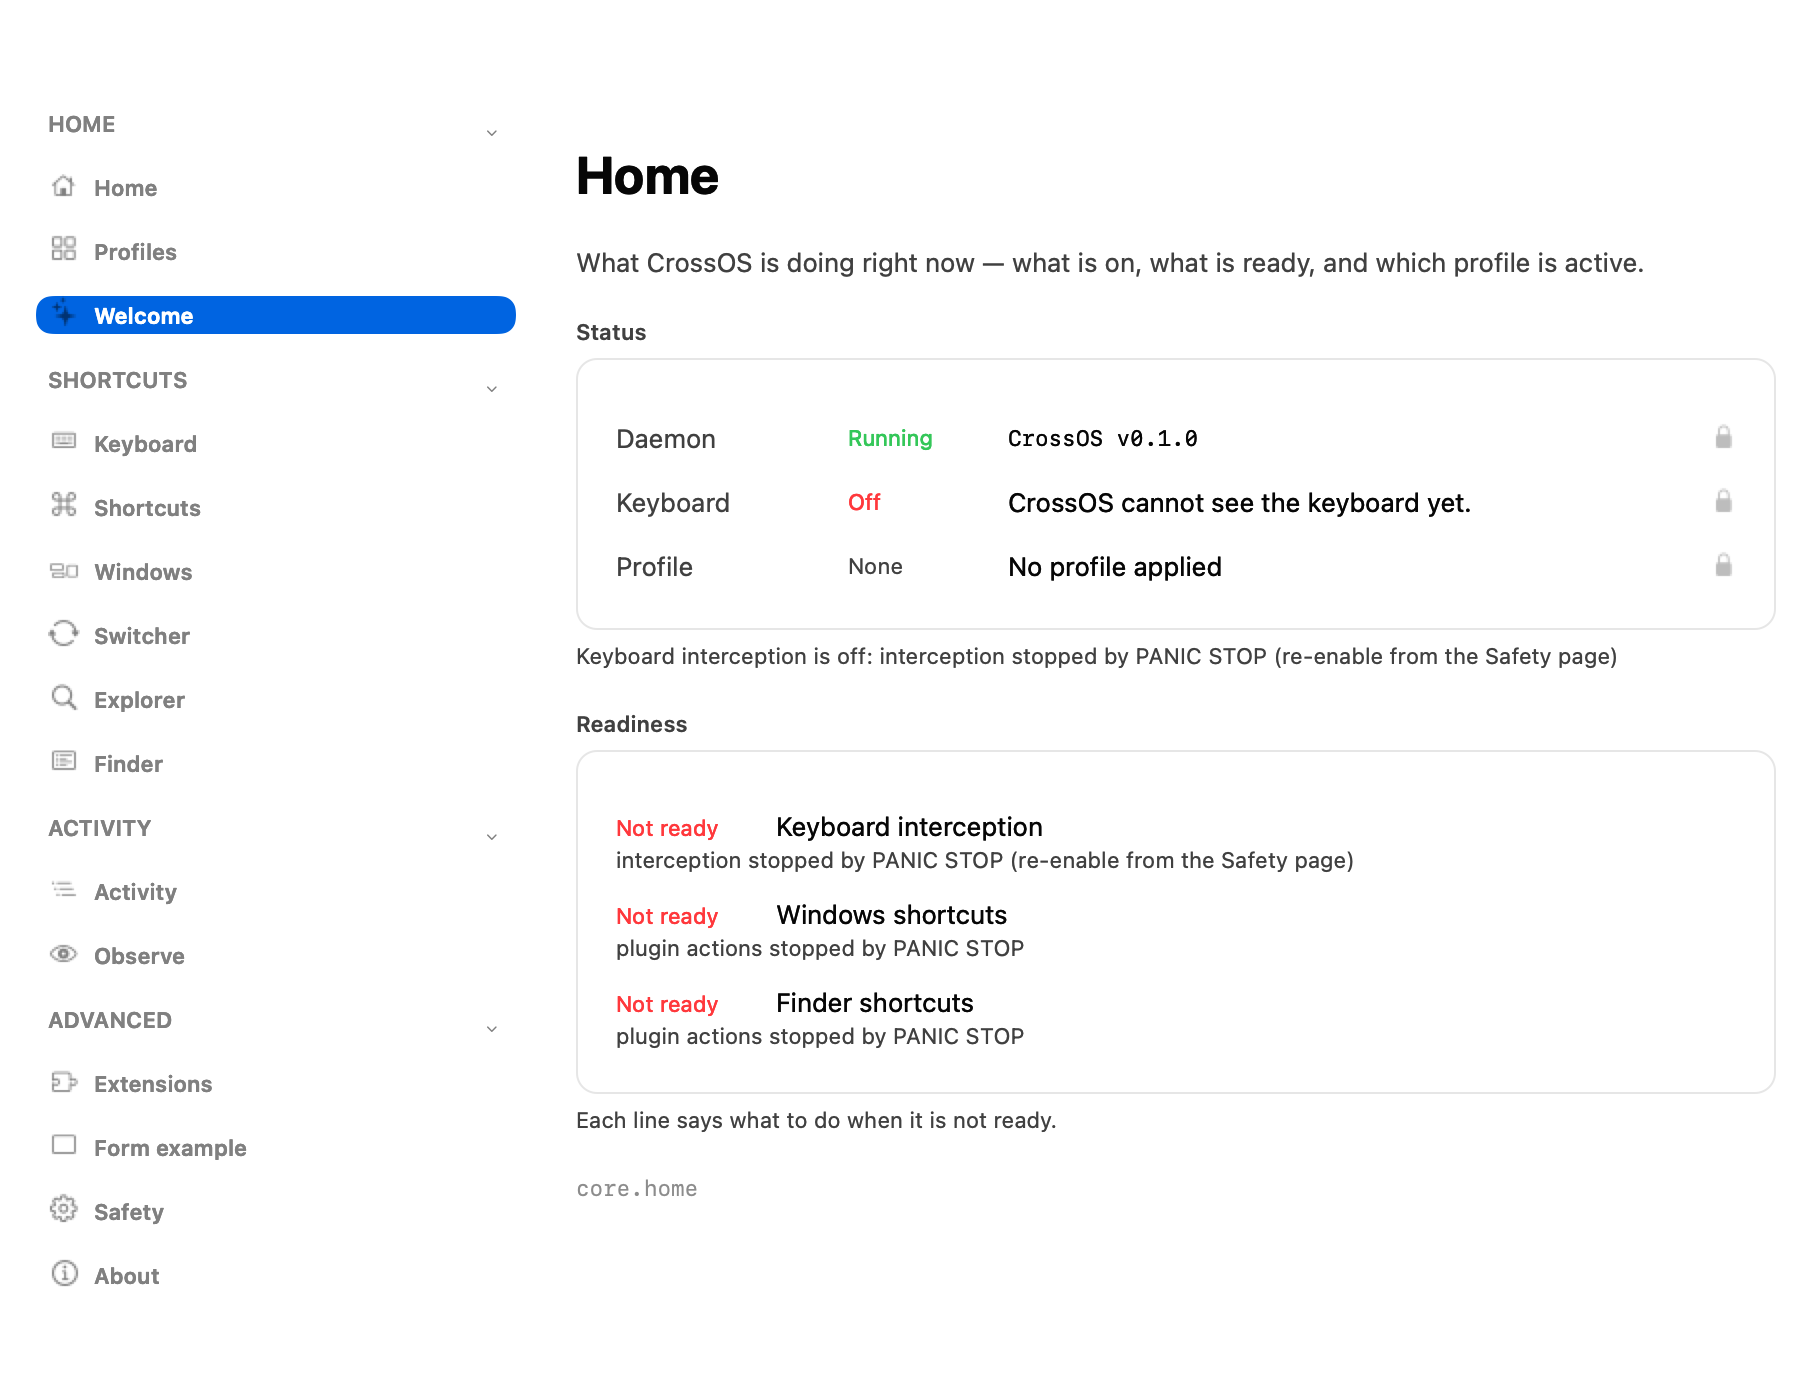
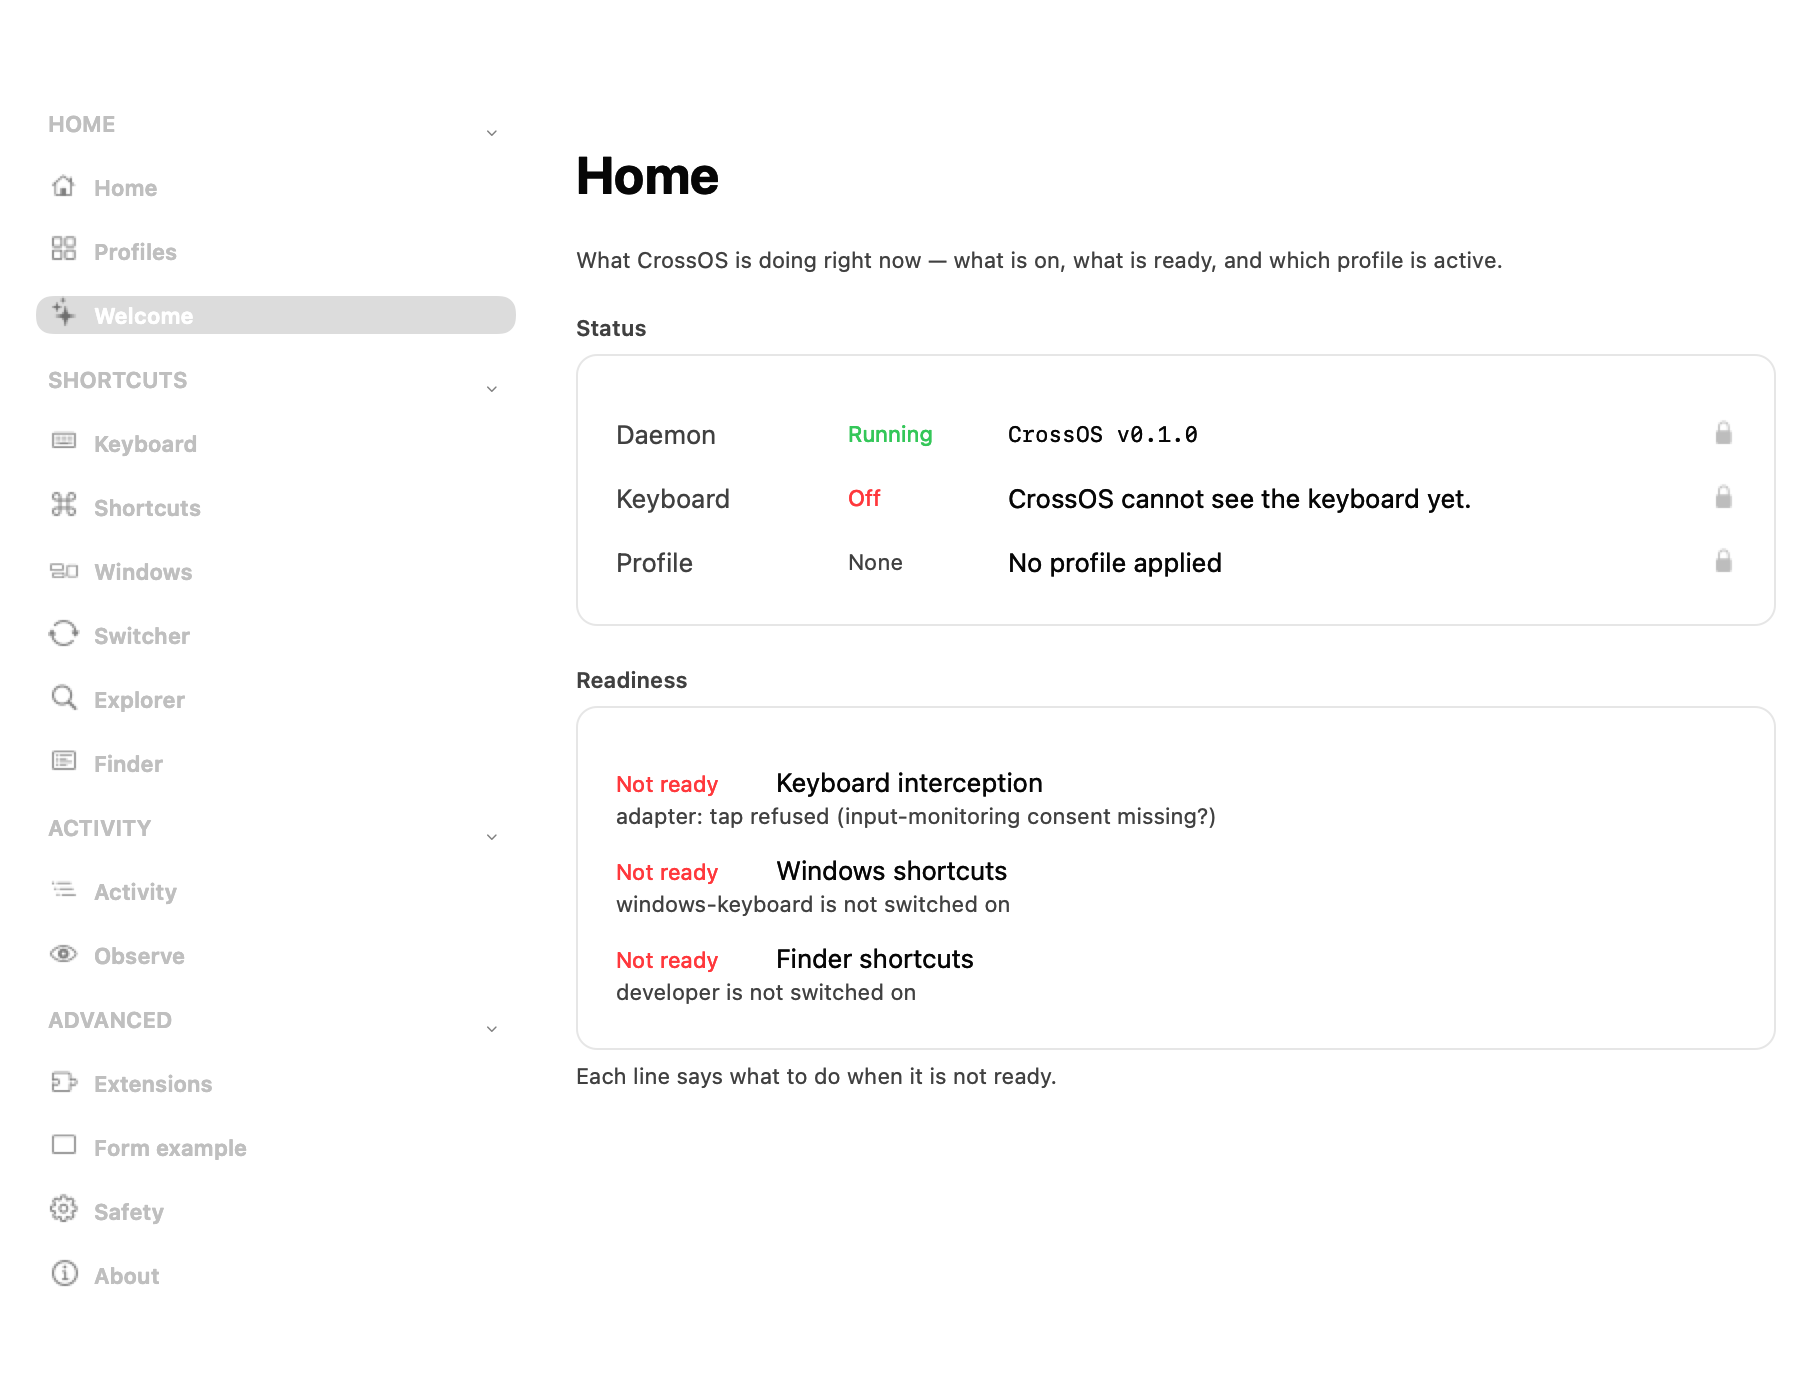
feat: take the developer chrome off every page
Three things a user sees on every screen and nobody asked for.

**The page id.** `core.home` in monospace at the foot of all fifteen
pages. The reason for it existing still holds — somebody reporting a
problem says "the About page is wrong" and the id makes it reproducible —
but it is a developer string on every screen, and it is the single thing
that made the app read as a diagnostic tool rather than as a Mac app. It
is behind `--show-ids` now, so reporting a bug still works.

**The description at body size.** On `core.commands` a sentence ABOUT
the Finder menu was set larger than the Finder menu. It is a subtitle,
not content, so it is caption size in the secondary ink — and it wraps,
because `labelWithString:` sets `usesSingleLineMode` and a label with it
set ignores `byWordWrapping` and truncates instead.

**The same sentence twice on one screen.** Measured on `core.home`:
"interception stopped by PANIC STOP (re-enable from the Safety page)"
appeared as the footnote under Status AND as the detail line under
"Keyboard interception" in the Readiness group. Two copies of one
sentence reads as two problems and is one. The Readiness rows own the
sentences they are about; the footnote is now only for a tap error no
readiness row carries.

And the shared plugin reason, which is the same mistake: all three
builtin plugins report the same "no manifest is loaded", rendered per row
as three identical orange lines on `core.extensions`. Stated once under
[…]

diff --git a/macos/Sources/CrossOSApp/ListViews2.swift b/macos/Sources/CrossOSApp/ListViews2.swift
@@ -378,6 +378,14 @@ private final class TraceTable: NSStackView, TableContent {
 /// What CrossOS can do, and what you have switched on.
 @MainActor
 final class PluginListView: CardControl {
+    /// The one reason every plugin reports, when they all report the same one.
+    ///
+    /// `core.pluginMeta` gives all three builtin plugins the same
+    /// `reason` and `loaded: false` — they are compiled from the rule table
+    /// and have no manifest. The row knows this is SHARED because it can
+    /// compare against this, and stays quiet; the list states it once.
+    static var sharedLoadReason: String = ""
+
     override init(control: Control, context: ControlContext) {
         super.init(control: control, context: context)
         Task { await load(context: context) }
@@ -401,7 +409,31 @@ final class PluginListView: CardControl {
         let stack = NSStackView()
         stack.orientation = .vertical
         stack.alignment = .leading
+        stack.distribution = .fill
         stack.spacing = Gap.row
+
+        // A reason SHARED by every plugin is one sentence for the group, not
+        // one per row. Three identical orange lines read as three problems;
+        // measured on `core.extensions`, that is what it rendered.
+        let reasons = metaRows.compactMap { row -> String? in
+            guard !row.loaded, let reason = row.reason, !reason.isEmpty else { return nil }
+            return reason
+        }
+        let shared = (reasons.count == metaRows.count && !reasons.isEmpty)
+            ? (reasons.first ?? "") : ""
+        PluginListView.sharedLoadReason = shared
+
+        if !shared.isEmpty {
+            let field = NSTextField(labelWithString: shared)
+            field.font = Typeface.caption
+            field.textColor = Palette.tertiaryInk
+            field.lineBreakMode = .byWordWrapping
+            field.usesSingleLineMode = false
+            field.maximumNumberOfLines = 0
+            stack.addArrangedSubview(field)
+            stack.setCustomSpacing(Gap.row, after: field)
+        }
+
         for meta in metaRows {
             stack.addArrangedSubview(PluginRow(
                 meta: meta,
@@ -459,14 +491,27 @@ private final class PluginRow: NSStackView {
         column.alignment = .leading
         column.spacing = Gap.tight
 
-        // A plugin that did not load says WHY, in words, in the row. A plugin
-        // listed with a switch and no reason is a control that does nothing and
-        // a person cannot tell whether it is broken or switched off.
-        if !meta.loaded, let reason = meta.reason, !reason.isEmpty {
+        // A plugin that did not load says WHY — but only when the reason is its
+        // OWN.
+        //
+        // All three builtin plugins report the same one: "no manifest is
+        // loaded — the builtin plugins are compiled from the rule table".
+        // Rendered per row, that is the same orange sentence three times on the
+        // page, which reads as three problems and is one. The shared case is
+        // stated once under the group by `PluginListView`, and the row says
+        // nothing about it.
+        //
+        // The reason stays in the row when it is specific to that plugin —
+        // one plugin failing to load for its own reason is that plugin's news.
+        let shared = PluginListView.sharedLoadReason
+        let reasonIsShared = !meta.loaded && meta.reason == shared && !shared.isEmpty
+
+        if !meta.loaded, let reason = meta.reason, !reason.isEmpty, !reasonIsShared {
             let field = NSTextField(labelWithString: reason)
             field.font = Typeface.caption
             field.textColor = Palette.warn
             field.lineBreakMode = .byWordWrapping
+            field.usesSingleLineMode = false
             field.maximumNumberOfLines = 0
             column.addArrangedSubview(field)
         } else if let permissions = meta.permissions, !permissions.isEmpty {

diff --git a/macos/Sources/CrossOSApp/PageViewController.swift b/macos/Sources/CrossOSApp/PageViewController.swift
@@ -41,16 +41,35 @@ public final class PageViewController: NSViewController {
         titleField.font = Typeface.pageTitle
         titleField.textColor = Palette.primaryInk
 
-        descriptionField.font = Typeface.body
+        // Caption size, and it wraps.
+        //
+        // The description was body size — the same size as the text inside
+        // every group on the page — so on `core.commands` a sentence about the
+        // Finder menu was set larger than the Finder menu. It is a subtitle,
+        // not content, and it should read as one.
+        descriptionField.font = Typeface.caption
         descriptionField.textColor = Palette.secondaryInk
-        descriptionField.maximumNumberOfLines = 2
+        descriptionField.alignment = .left
+        descriptionField.lineBreakMode = .byWordWrapping
+        // `labelWithString:` sets `usesSingleLineMode`, and with it set a label
+        // ignores `byWordWrapping` and truncates instead.
+        descriptionField.usesSingleLineMode = false
+        descriptionField.maximumNumberOfLines = 0
 
-        // The page's own id, small and quiet at the foot. It is there because
-        // a person reporting a problem says "the About page is wrong" and the
-        // id is what makes that reproducible — and because a plugin page whose
-        // id is visible is a page whose provenance is not a mystery.
+        // The page's own id, at the foot, and **only when it is asked for.**
+        //
+        // The reasoning for it existing at all still holds: a person reporting
+        // a problem says "the About page is wrong" and the id is what makes
+        // that reproducible. But `core.home` at the bottom of every page in
+        // monospace is a developer string on every screen a user ever sees,
+        // and it is the single thing that makes the app read as a diagnostic
+        // tool rather than as a Mac app.
+        //
+        // `--show-ids` is how someone reports a bug without it costing every
+        // other person the noise.
         pageId.font = Typeface.mono
         pageId.textColor = Palette.tertiaryInk
+        pageId.isHidden = !CommandLine.arguments.contains("--show-ids")
 
         stack.orientation = .vertical
         // `.width`, not `.leading`. A `.leading` stack gives each row its

diff --git a/macos/Sources/CrossOSApp/ShotRenderer.swift b/macos/Sources/CrossOSApp/ShotRenderer.swift
@@ -341,6 +341,23 @@ enum ShotRenderer {
         guard let pageView = shell.pageController?.view else {
             throw ShotError.noContentView
         }
+        // The content view, which is everything BELOW the title bar.
+        //
+        // **The toolbar and the title are not in any of these pictures**, and
+        // three attempts to put them there failed:
+        //
+        //   - capturing `contentView.superview` (the theme frame): it renders
+        //     the same picture, so the frame is not taller than the content
+        //   - pulling `contentView` out of its window into a synthetic holder:
+        //     `Trace/BPT trap` — a window tears down its own content view when
+        //     it is removed, so this is the crash, not a layout failure
+        //   - `screencapture`: "could not create image from display", which is
+        //     Screen Recording permission, and is a person to grant
+        //
+        // So the toolbar — the search field included — has NEVER been
+        // verified by a render in this repo, and every "looks right" said about
+        // it was said about a picture it was not in. That is a real gap and it
+        // is recorded here rather than papered over.
         let target: NSView = wholeWindow
             ? (shell.window?.contentView ?? pageView)
             : pageView
@@ -436,3 +453,5 @@ extension NSView {
         for sub in subviews { sub.setLayersOff() }
     }
 }
+
+

diff --git a/macos/Sources/CrossOSApp/Views.swift b/macos/Sources/CrossOSApp/Views.swift
@@ -163,7 +163,19 @@ final class HomeSummaryView: NSStackView {
         // And it is shown ONLY when there is something to say: a green
         // "All checks are ready" under a group of three green facts is noise,
         // on the most-read page in the app.
-        if let error = statusValue?.tapError, !error.isEmpty, !interception {
+        //
+        // And it is shown ONLY when the sentence is not ALREADY on the page.
+        // Measured on `core.home`: "interception stopped by PANIC STOP
+        // (re-enable from the Safety page)" appeared TWICE — once as this
+        // footnote and again as the detail line under "Keyboard interception"
+        // in the Readiness group. Two copies of one sentence on one screen
+        // reads as two problems and is one.
+        //
+        // The Readiness rows own the sentences they are about. This footnote is
+        // for a tap error that no readiness row carries.
+        let namedInReadiness = (try? await client.readiness())?
+            .contains { $0.detail == statusValue?.tapError } ?? false
+        if let error = statusValue?.tapError, !error.isEmpty, !interception, !namedInReadiness {
             section?.footnote.stringValue = "Keyboard interception is off: \(error)"
             // SECONDARY ink, not `warn`.
             //
